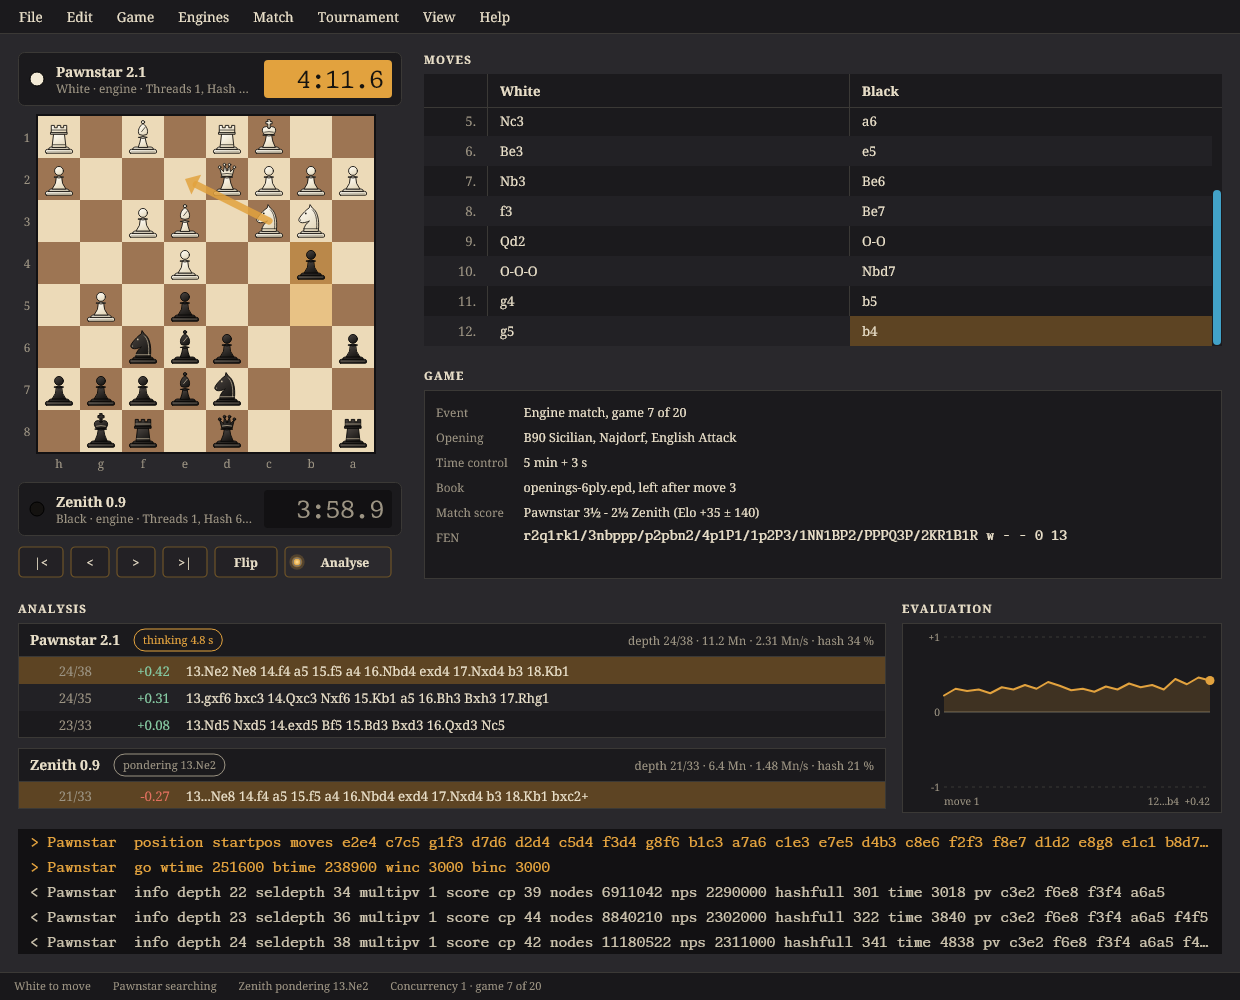
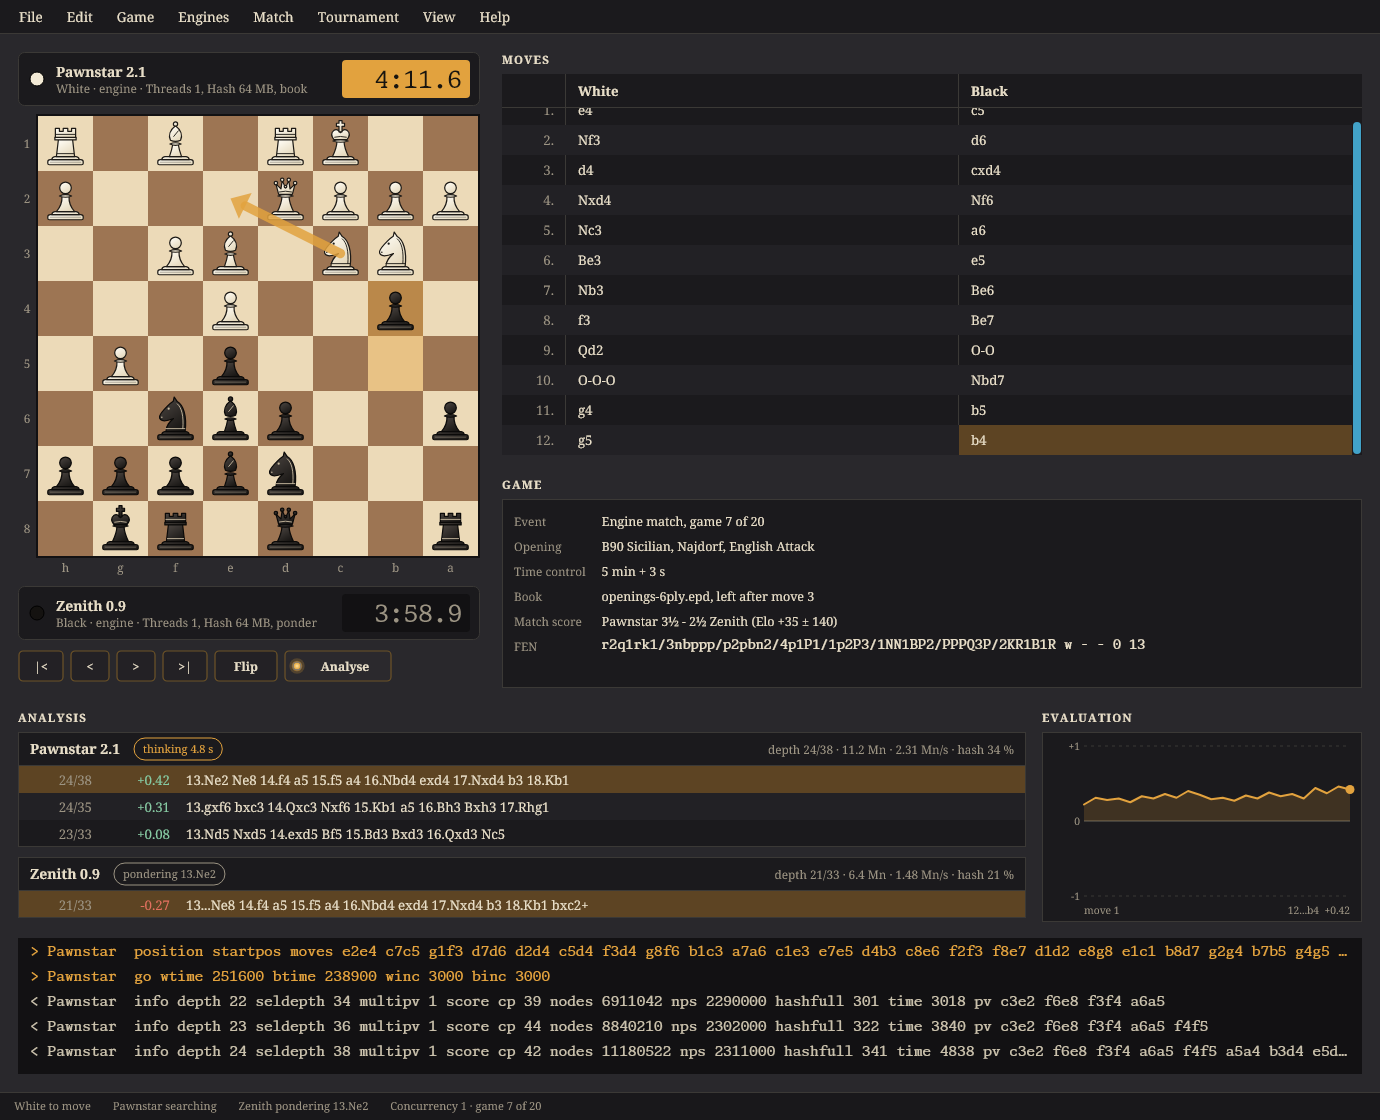
Draw the standings for review, and every review image at one size
The render tool's "standings" view shows Tournament > Standings and
crosstable for ten games of a double round robin of four, one pairing yet to
meet, so the lists' look is reviewed as the other dialogs' is; a CTest draws
it on every platform. The review images in docs/design/ are all drawn at the
mockup's 1380 x 1120 now, and the README names each, with the tool's views.

diff --git a/src/app/RenderMain.cpp b/src/app/RenderMain.cpp
@@ -2,10 +2,12 @@
 // it - the review images in docs/design/ are made with it.
 //
 //   uci_host_render_main <out.png> [scale] [width height] [flipped] [empty] [newgame] [engines] [tournament]
+//                       [standings]
 //
 // The window shows the mockup's state (Showcase.h) unless "empty" asks for a fresh window's; "flipped" turns the
 // board; "newgame" opens Game > New game over it, offering two engines; "engines" opens Engines > Manage engines on
-// two engines, the first with options of every type; "tournament" opens Tournament > New tournament on three. The scale
+// two engines, the first with options of every type; "tournament" opens Tournament > New tournament on three;
+// "standings" shows Tournament > Standings and crosstable for a double round robin of four after ten games. The scale
 // is the device pixels per design pixel, 1 by default; the size is the window's, in design pixels.
 
 #include "Commands.h"
@@ -15,6 +17,7 @@
 #include "Menus.h"
 #include "PieceSet.h"
 #include "Showcase.h"
+#include "StandingsDialog.h"
 
 #include "SkiaCanvas.h"
 
@@ -64,7 +67,7 @@ int main(int argc, char **argv)
 {
     if (argc < 2)
     {
-        std::fprintf(stderr, "usage: uci_host_render_main <out.png> [scale] [width height] [flipped] [empty]\n");
+        std::fprintf(stderr, "usage: uci_host_render_main <out.png> [scale] [width height] [view]\n");
         return 2;
     }
     const std::string        out = argv[1];
@@ -74,6 +77,7 @@ int main(int argc, char **argv)
     bool                     is_newgame    = false;
     bool                     is_engines    = false;
     bool                     is_tournament = false;
+    bool                     is_standings  = false;
     for (int index = 2; index < argc; ++index)
     {
         const std::string argument = argv[index];
@@ -96,6 +100,10 @@ int main(int argc, char **argv)
         else if (argument == "tournament")
         {
             is_tournament = true;
+        }
+        else if (argument == "standings")
+        {
+            is_standings = true;
         }
         else
         {
@@ -176,6 +184,19 @@ int main(int argc, char **argv)
             controller.catalogue().engines.push_back(engine);
         }
         controller.Command(uci_host::app::kNewTournament);
+    }
+    // Ten games of a double round robin of four: the leader two and a half points clear, one pairing yet to meet.
+    using uci_host::chess::GameResult;
+    const std::vector<std::string> names = {"Pawnstar 2.1", "Zenith 0.9", "Stoopid Chess 1.4", "Blunderbuss 3"};
+    const std::vector<uci_host::match::GameResultEntry> results = {
+        {0, 1, GameResult::kWhiteWins}, {1, 0, GameResult::kDraw},      {0, 2, GameResult::kWhiteWins},
+        {2, 0, GameResult::kDraw},      {1, 2, GameResult::kBlackWins}, {2, 1, GameResult::kWhiteWins},
+        {0, 3, GameResult::kWhiteWins}, {3, 0, GameResult::kBlackWins}, {1, 3, GameResult::kDraw},
+        {3, 1, GameResult::kWhiteWins}};
+    uci_host::app::StandingsDialog standings([&] { return std::make_pair(names, results); });
+    if (is_standings)
+    {
+        view.SetOverlay(&standings);
     }
 
     reckless::gfx::Image image = reckless::gfx::MakeImage(static_cast<int>(static_cast<float>(width) * scale + 0.5f),

diff --git a/README.md b/README.md
@@ -112,7 +112,7 @@ runtime.
 | `integration` | `uci_host_integration_test` | a real engine, named by `UCI_HOST_TEST_ENGINE`; skipped when unset |
 | `gui` | `uci_host_window_test` | the window with no window: the pieces, the board's geometry and a person's moves on it, the lists, the graph, the controller, the window drawn through Skia |
 | `app_smoke` | `RecklessUciHost --smoke` | the app opens its window and draws thirty frames (label `window`: a display is needed) |
-| `render_main`, `render_flipped`, `render_newgame`, `render_engines` | `uci_host_render_main` | the window and its dialogs drawn to PNGs with no display |
+| `render_main`, `render_flipped`, `render_newgame`, `render_engines`, `render_tournament`, `render_standings` | `uci_host_render_main` | the window and its dialogs drawn to PNGs with no display |
 
 ```
 UCI_HOST_TEST_ENGINE=/path/to/engine ctest --preset release -R integration --output-on-failure
@@ -180,9 +180,11 @@ blocks and their lines in the log; the card carries the match's score with its E
 tournament's leader. Tournament > Standings and crosstable shows both in the toolkit's lists, followed as games
 finish. Stop abandons the games in progress; the workers finish their moves in the background.
 
-`uci_host_render_main <out.png> [scale] [width height] [flipped] [empty]` draws the window to a PNG with the mockup's
-state, with no window and no display: the review images in `docs/design/` (`main-window.png`, `main-window-flipped.png`)
-are made with it.
+`uci_host_render_main <out.png> [scale] [width height] [view]` draws the window to a PNG with the mockup's state, with
+no window and no display; the view is `flipped`, `empty` (a fresh window), `newgame`, `engines` (the engine manager),
+`tournament` (a new tournament's setup) or `standings` (the standings and crosstable). The review images in
+`docs/design/` are made with it at 1380 x 1120: `main-window.png`, `main-window-flipped.png`, `new-game.png`,
+`engine-manager.png`, `new-tournament.png` and `standings.png`.
 
 ## The command line
 
